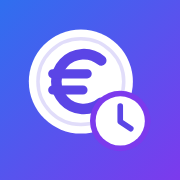
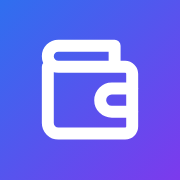
Neues App-Symbol: Geldbörse auf Verlauf Blau → Lila (1.3.1)
Minimalistisches Symbol statt Münze mit Uhr. Vorlage icons/icon.svg,
daraus die PNG-Dateien (512, maskable 512, 192, 180, 32). README:
Hinweis, dass iOS ein neues Symbol erst nach erneutem Hinzufügen zeigt.

Claude-Session: https://claude.ai/code/session_017LCJMRV6aJ6ju4EH42kEg5

Changed region(s): [[0.1389, 0.1389, 0.8056, 0.8333]]

diff --git a/sw.js b/sw.js
@@ -5,7 +5,7 @@
 // Bei jeder Änderung an der App: VERSION erhöhen (und in js/config.js),
 // damit Handys die neuen Dateien laden.
 
-const VERSION = '1.3.0';
+const VERSION = '1.3.1';
 // Eigener Präfix: Alle Apps unter schule11.github.io teilen sich dieselben Caches.
 // Gleiche Namen würden sich gegenseitig überschreiben oder löschen.
 const PREFIX = 'haushaltsbuch-';

diff --git a/js/config.js b/js/config.js
@@ -10,7 +10,7 @@ export const storageKey = (name) => `${APP_ID}.${name}`;
 
 // Versionsnummer der App. Bei jeder Änderung auch in sw.js (VERSION) erhöhen,
 // damit Handys die neue Version laden.
-export const APP_VERSION = '1.3.0';
+export const APP_VERSION = '1.3.1';
 export const APP_STAGE = '';
 
 // Format der Backup-Datei. Wird erhöht, wenn sich der Aufbau ändert.

diff --git a/README.md b/README.md
@@ -138,6 +138,9 @@ Neue Versionen werden in dieses GitHub-Repository hochgeladen. Die App holt sie 
 von selbst und zeigt kurz „App aktualisiert“ an. Deine Daten bleiben dabei erhalten.
 Falls nichts passiert: die App im App-Umschalter wegwischen und neu öffnen.
 
+Ein **neues App-Symbol** übernimmt das iPhone nicht von selbst: Dafür die App einmal über Safari neu zum
+Home-Bildschirm hinzufügen (vorher ein Backup machen, falls das alte Symbol gelöscht werden soll).
+
 ## 6. Am Laptop lokal starten (optional)
 
 Nur nötig, wenn du am Code etwas ausprobieren willst. Im Terminal im Projektordner:
@@ -172,6 +175,7 @@ Reines HTML, CSS und JavaScript, ohne Build-Werkzeuge und ohne fremde Bibliothek
 | `js/views/*.js` | Die Bildschirme (`finances.js`: Reiter „Finanzen“ mit Buchungsliste `bookings.js` und Auswertung `report.js`; `recurringList.js`: Daueraufträge; `hours.js`: Überstunden und Formular „Monat erfassen“; `form.js`: Buchung und Dauerauftrag) |
 | `js/views/charts.js` | Diagramme (SVG, ohne Bibliothek; Farben in `css/app.css` als `--chart-…`) |
 | `sw.js` | Offline-Modus (Liste aller Dateien) |
+| `icons/` | App-Symbol: Geldbörse auf Verlauf Blau → Lila. Vorlage ist `icon.svg`, daraus werden die PNG-Dateien in den Größen 512, 192, 180 und 32 erzeugt |
 
 Überstunden werden je Monat mit fester ID `h-JJJJ-MM` gespeichert. So entsteht beim Zusammenführen zweier Geräte
 nie ein Monat doppelt – es gilt der zuletzt geänderte. Ebenso bekommt jede Zahlung aus einem Dauerauftrag eine feste
